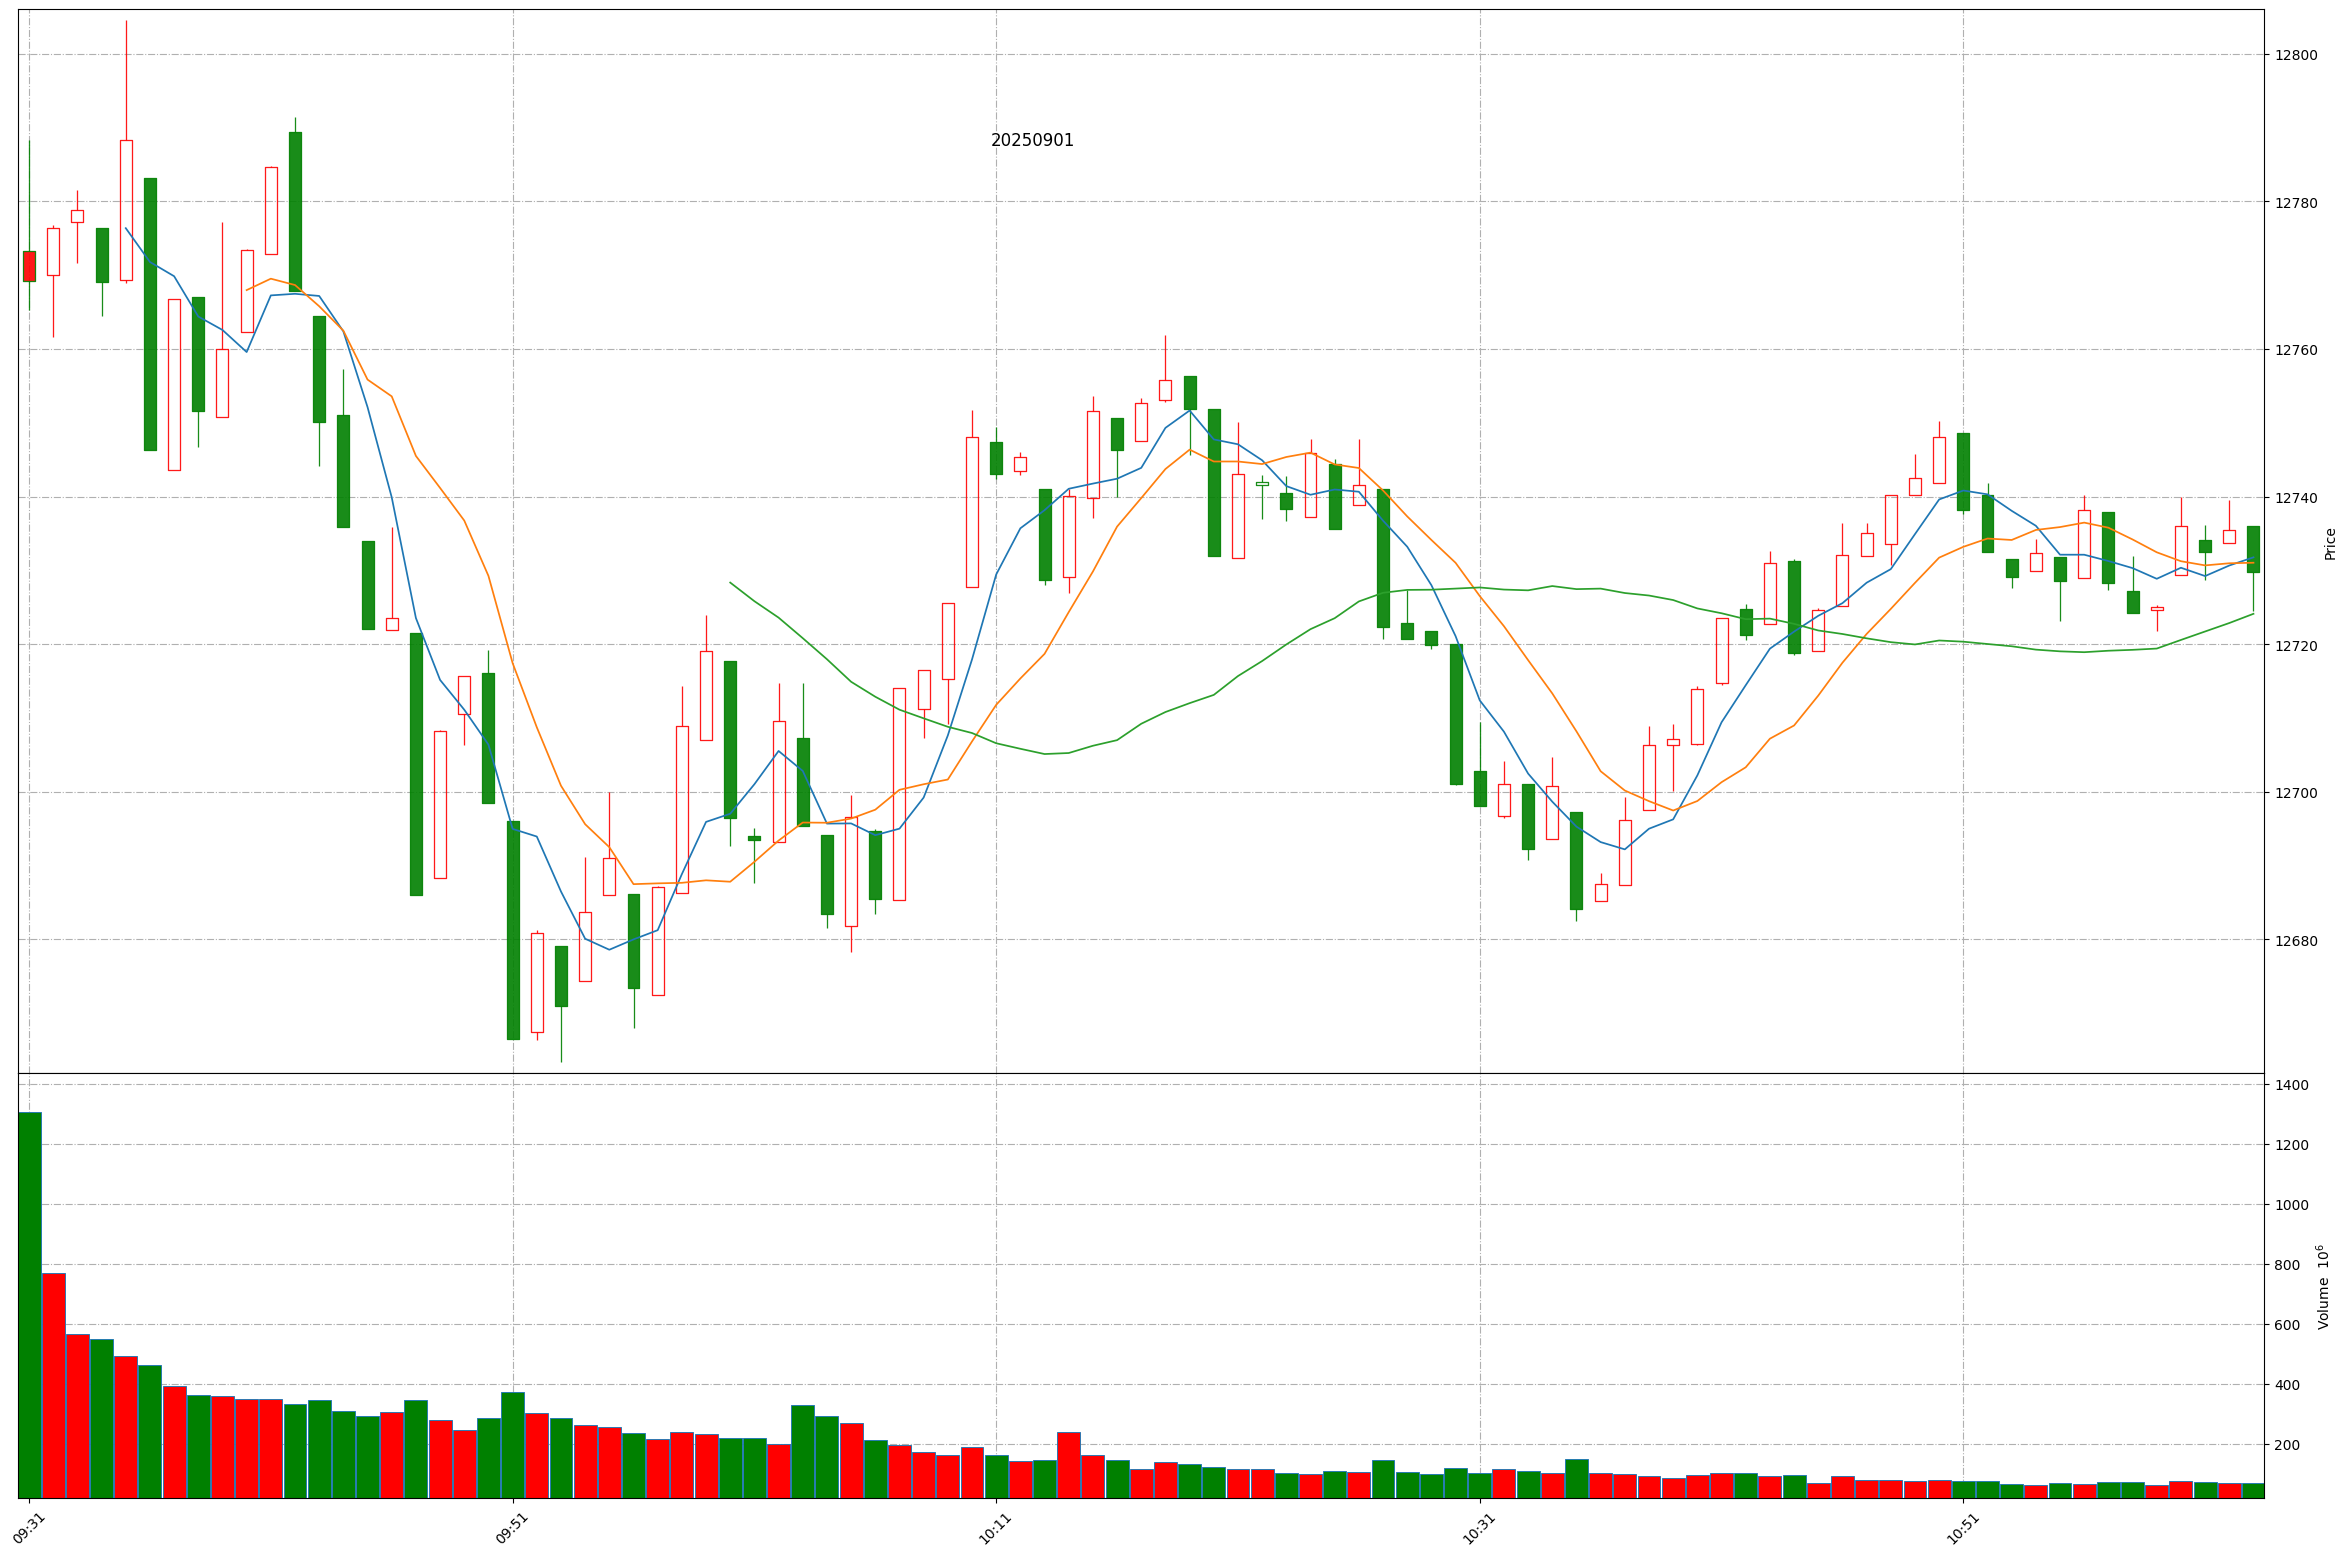
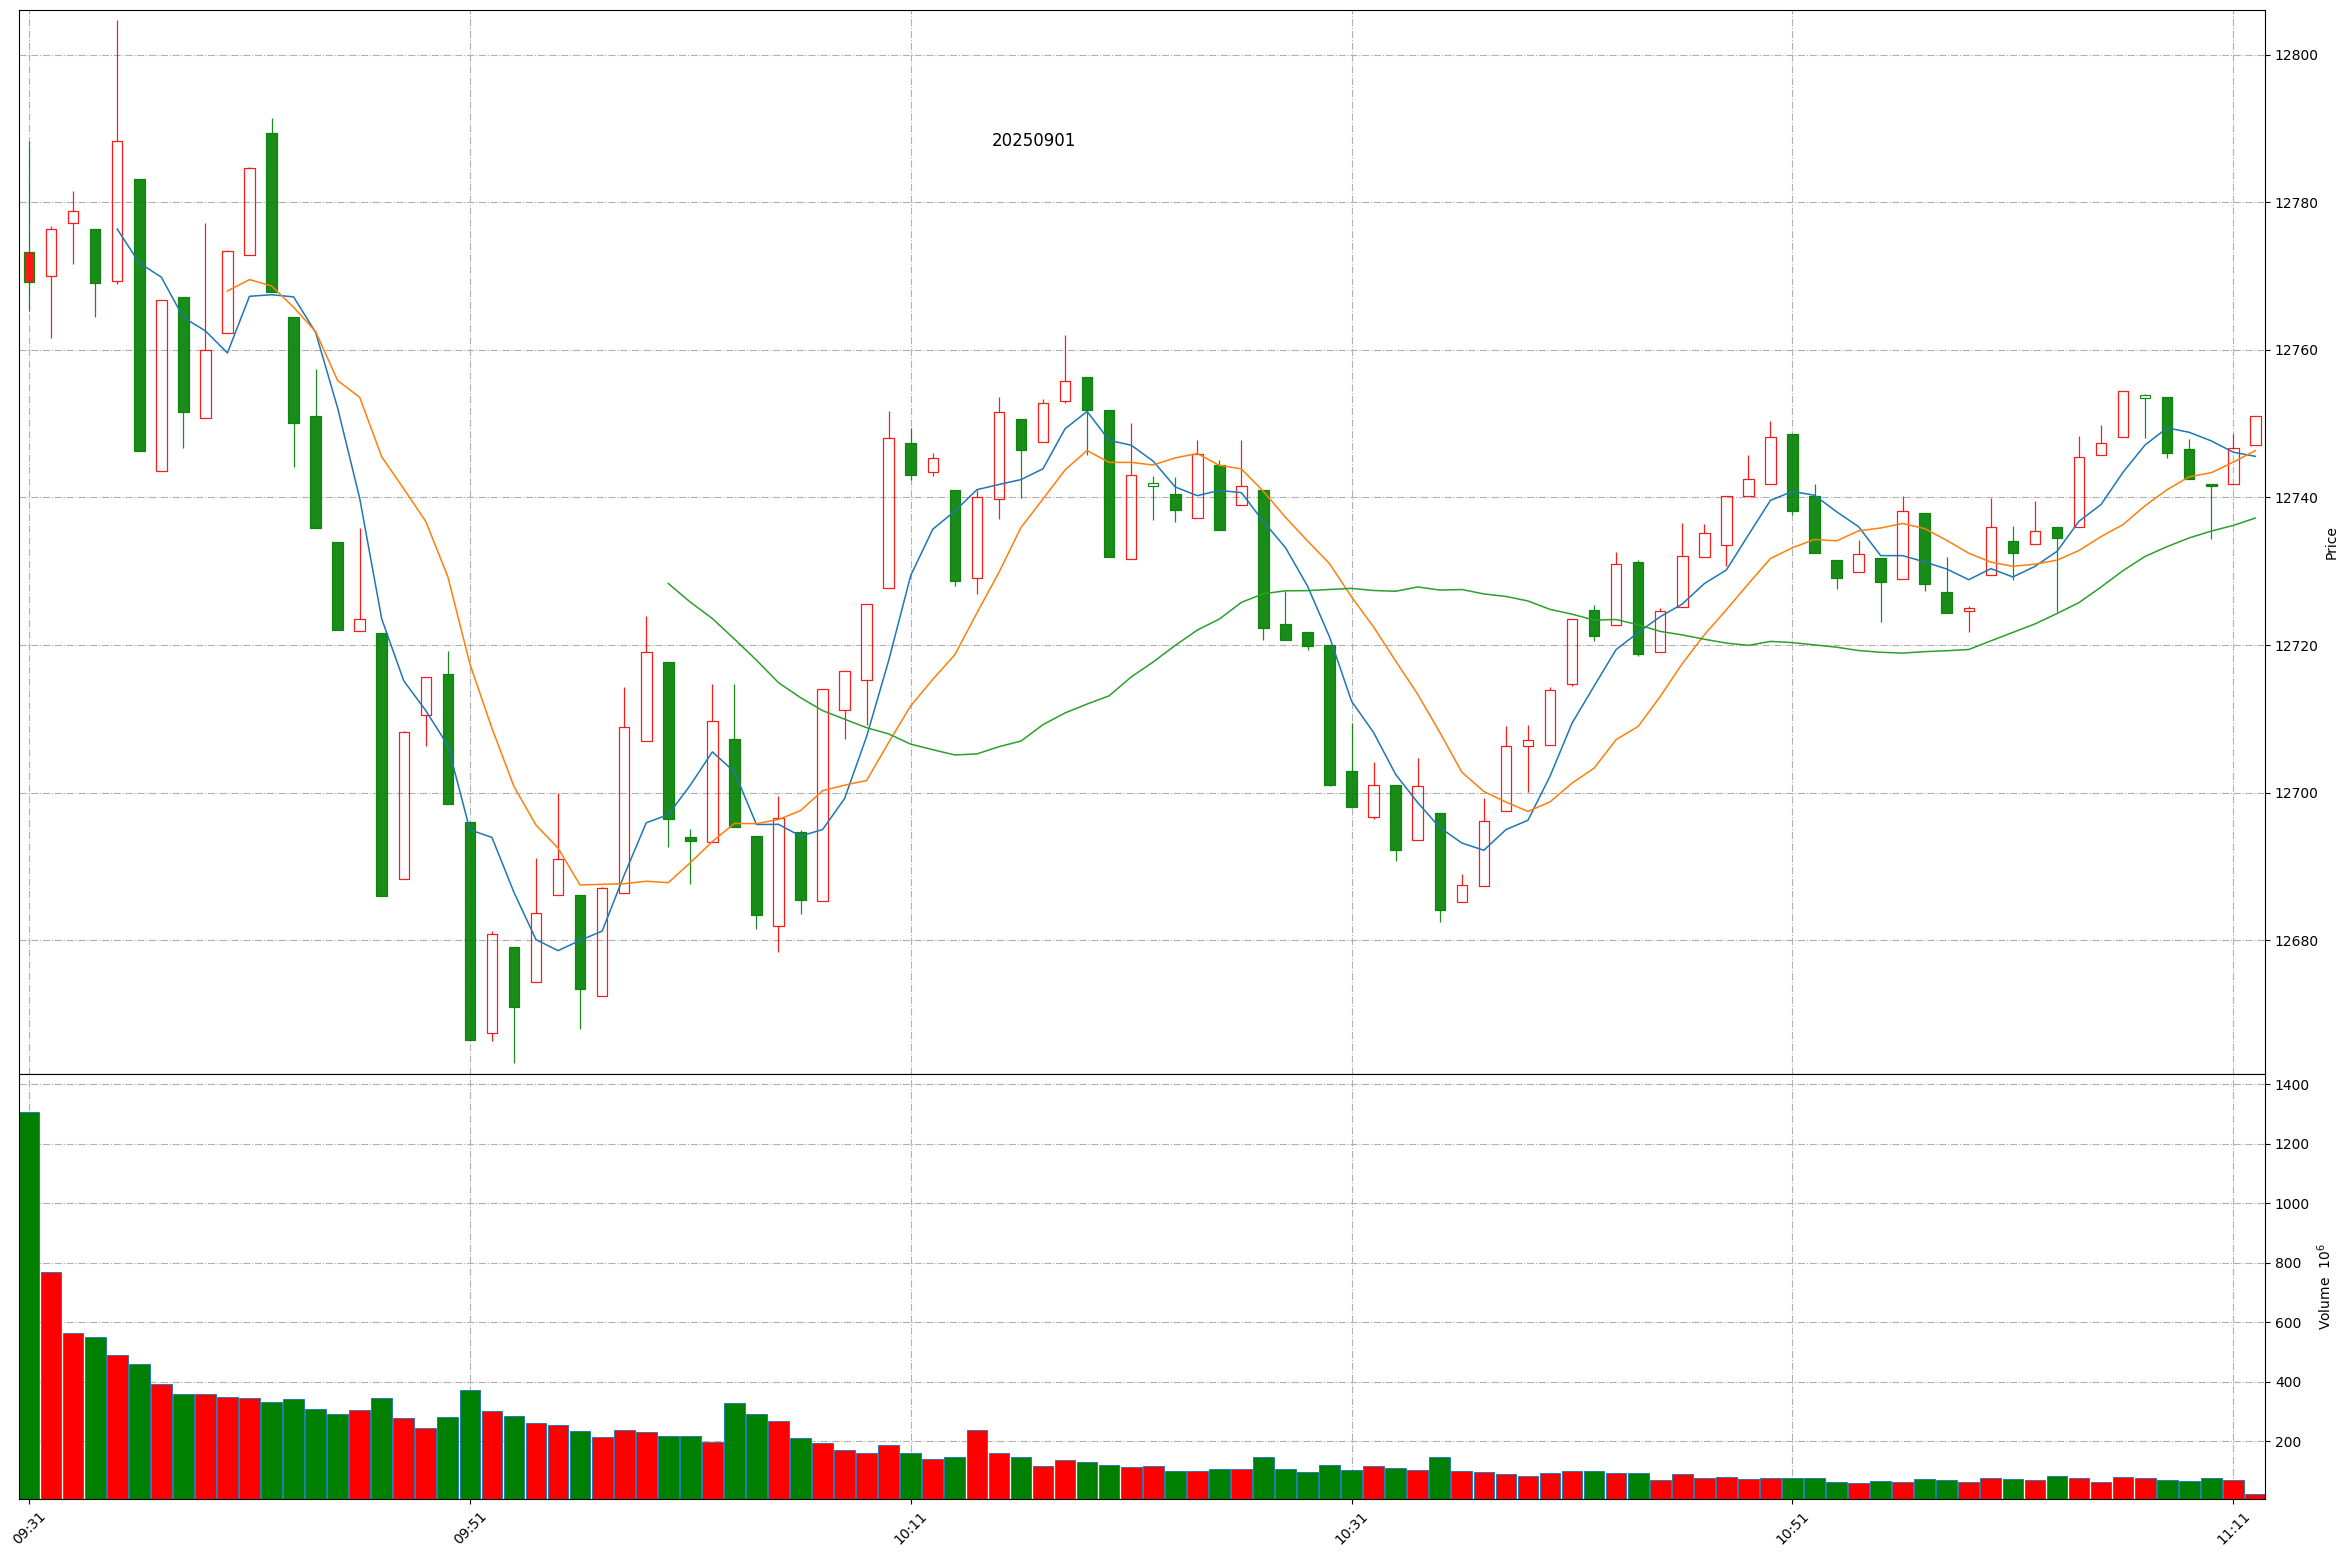
Github action update at 2025-09-01 11:11:38.

Changed region(s): [[0.0, 0.0925, 0.9642, 0.6787], [0.0, 0.8021, 0.9642, 0.9871], [0.9642, 0.8021, 0.9953, 0.8638]]

diff --git a/README.md b/README.md
@@ -1,11 +1,11 @@
 
 # Daily-A-share-market-quotes 每日 A 股指数（5min 更新）- 20250901
 
-### 上证指数 20250901 11:3
+### 上证指数 20250901 11:11
 ![](./fig/2025/9/20250901-sh000001.png)
 
-### 深证成指 20250901 11:3
+### 深证成指 20250901 11:11
 ![](./fig/2025/9/20250901-sz399001.png)
 
-### 北证50 20250901 11:3
+### 北证50 20250901 11:11
 ![](./fig/2025/9/20250901-bj899050.png)
